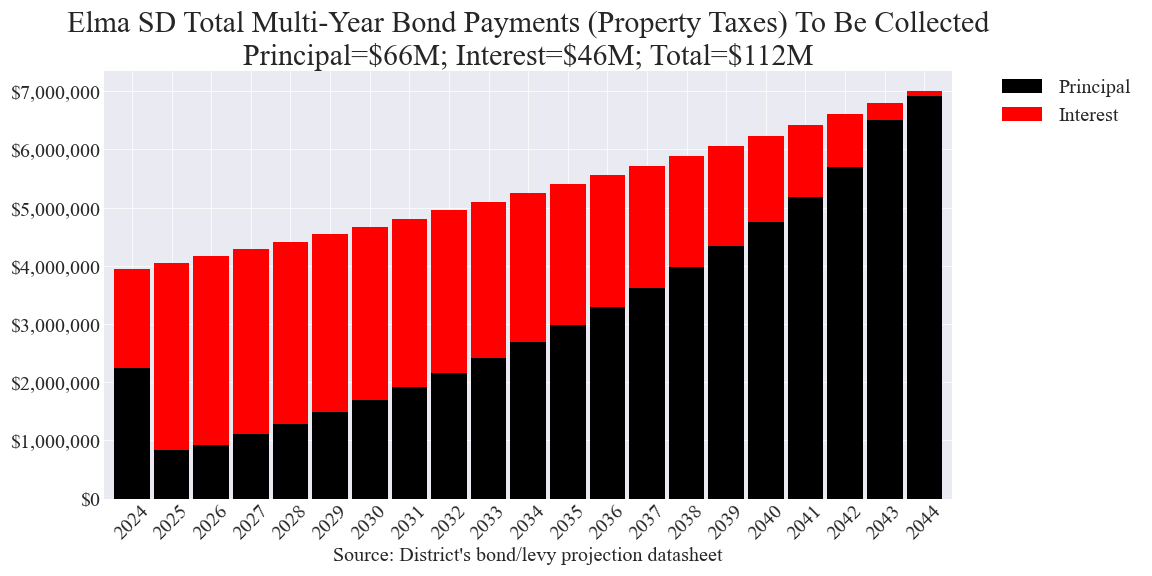
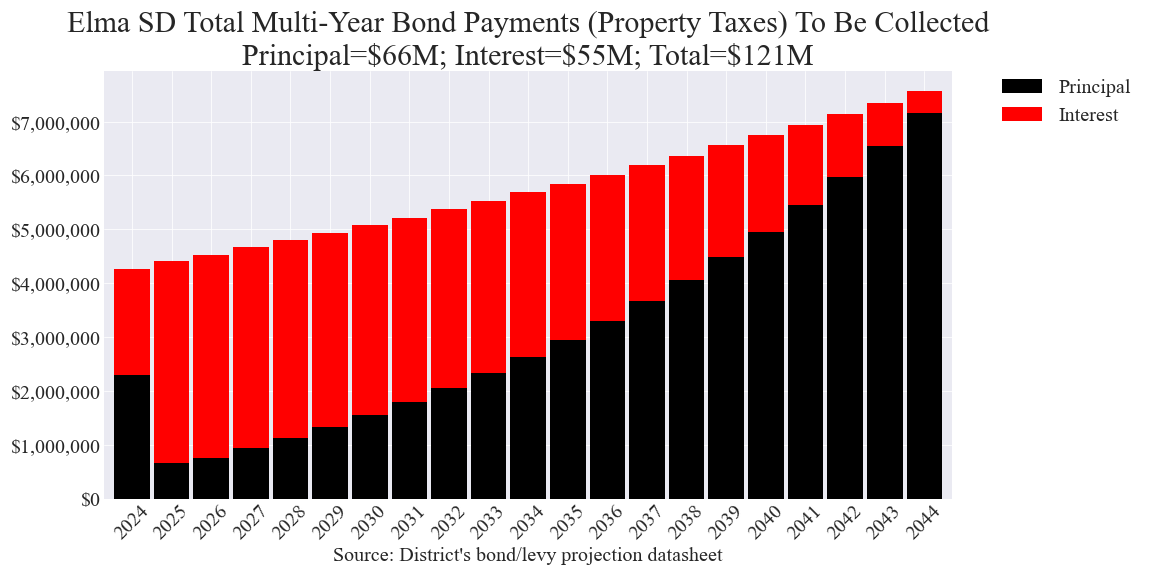
Updated Elma SD charts

diff --git a/_includes/cost_estimates/20230214/Elma_20230214_Enhanced.html b/_includes/cost_estimates/20230214/Elma_20230214_Enhanced.html
@@ -16,7 +16,7 @@
 	sampleParcelAVMin = 100000;
 	sampleParcelAVMax = 2000000;
 	totalBondPrincipal = 66000000;
-	totalBondInterest = 45837000;
+	totalBondInterest = 55174000;
 	totalBondCost = totalBondPrincipal + totalBondInterest;
 	sampleParcelPOF = sampleParcelAV / totalBondAV;
 	totalBondCostParcel = 0;
@@ -37,27 +37,27 @@
 		data.addColumn('number', 'Interest + Fees');
 
 		data.addRows([
-			['2024', 2238200, 1702800],
-			['2025', 835691, 3218309],
-			['2026', 925674, 3241326],
-			['2027', 1112961, 3179039],
-			['2028', 1291170, 3121830],
-			['2029', 1485530, 3055470],
-			['2030', 1693872, 2979128],
-			['2031', 1918911, 2892089],
-			['2032', 2157502, 2793498],
-			['2033', 2412343, 2682657],
-			['2034', 2682271, 2558729],
-			['2035', 2977056, 2420944],
-			['2036', 3287975, 2268025],
-			['2037', 3613860, 2099140],
-			['2038', 3971477, 1913523],
-			['2039', 4347454, 1709546],
-			['2040', 4745733, 1486267],
-			['2041', 5174462, 1242538],
-			['2042', 5698779, 907221],
-			['2043', 6507791, 288209],
-			['2044', 6921288, 76712],
+			['2024', 2287030, 1982970],
+			['2025', 655588, 3748412],
+			['2026', 751136, 3777864],
+			['2027', 942537, 3720463],
+			['2028', 1127972, 3664028],
+			['2029', 1333496, 3596504],
+			['2030', 1558311, 3516689],
+			['2031', 1793565, 3423435],
+			['2032', 2053889, 3316111],
+			['2033', 2329774, 3193226],
+			['2034', 2629157, 3053843],
+			['2035', 2949439, 2896561],
+			['2036', 3294872, 2720128],
+			['2037', 3669957, 2523043],
+			['2038', 4064469, 2303531],
+			['2039', 4494569, 2060431],
+			['2040', 4954384, 1791616],
+			['2041', 5443689, 1495311],
+			['2042', 5973251, 1169749],
+			['2043', 6537489, 812511],
+			['2044', 7155426, 407574],
 
 		]);
 
